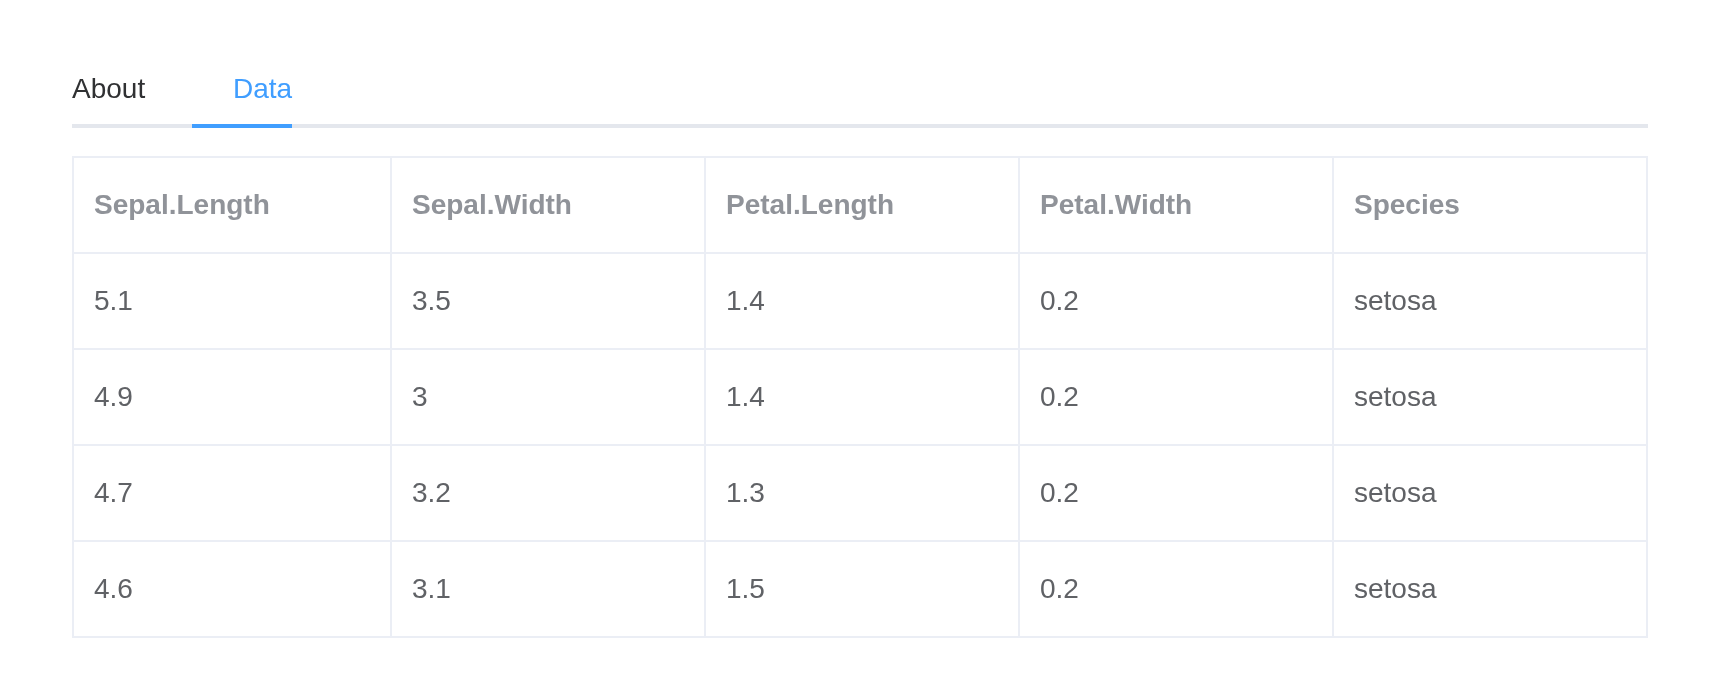
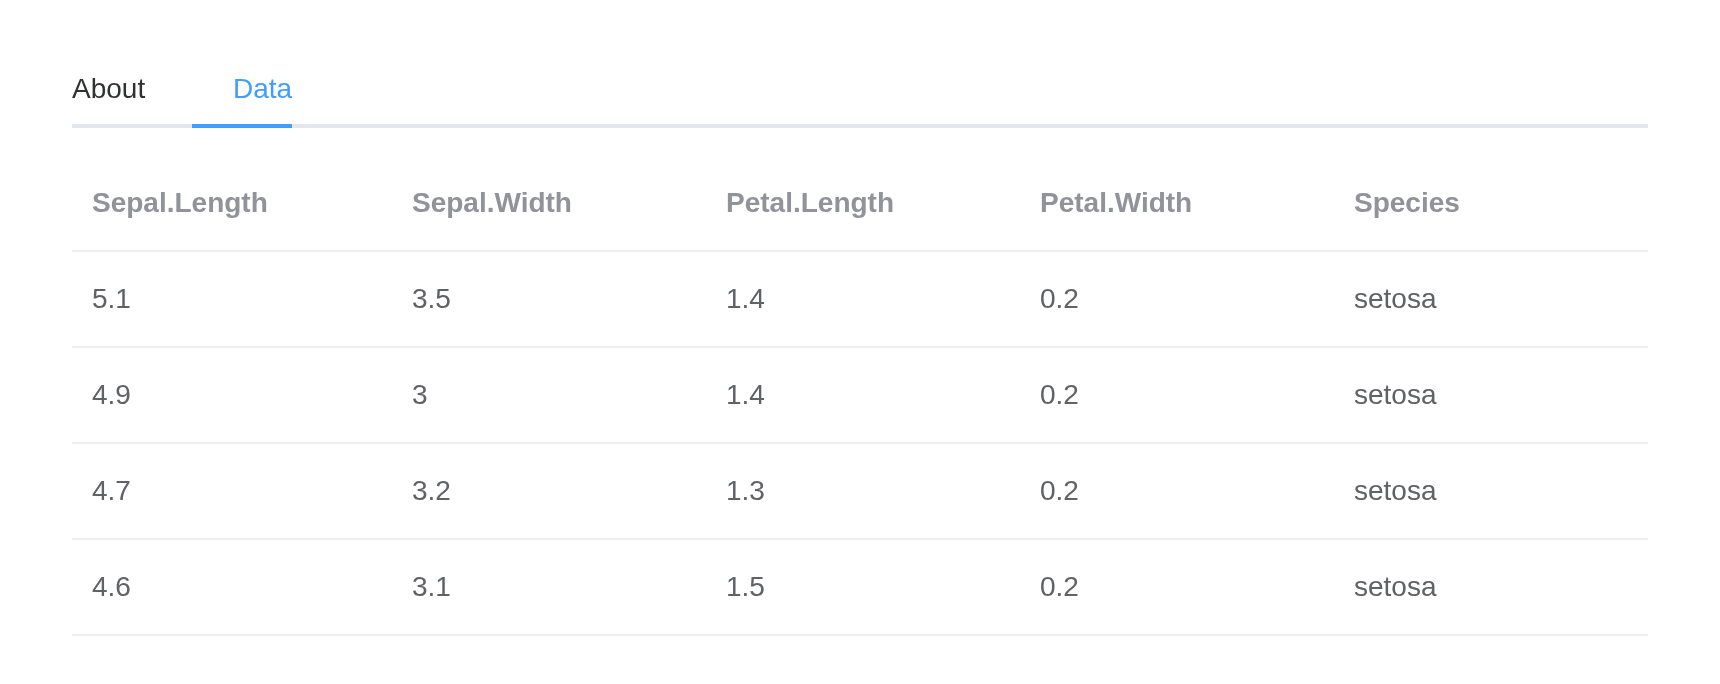
feat: el_table() follows Element's default of no borders

diff --git a/NEWS.md b/NEWS.md
@@ -51,6 +51,9 @@ and a `type` of `"index"` or `"expand"`. A button in a cell reports with
 `rowAction('edit', scope)`, setting `input$<id>_edit` to the row's number
 and the row. `loading` shows Element's loading mask, from the server too.
 
+`el_table()` draws no column borders by default, as Element does; pass
+`border = TRUE` for them.
+
 `update_el_table(data =)` keeps the columns the table was created with.
 It used to re-infer them from the new data, discarding every label,
 formatter and template.
